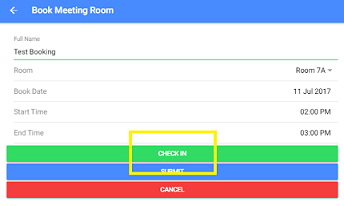
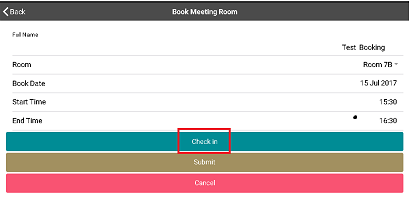
fixed clock style issue and add background loading

diff --git a/src/pages/room-booking/room-booking.ts b/src/pages/room-booking/room-booking.ts
@@ -1,5 +1,5 @@
 import { Component, ViewChild, ElementRef, Renderer } from '@angular/core';
-import { IonicPage, NavController, NavParams } from 'ionic-angular';
+import { IonicPage, NavController, NavParams, LoadingController } from 'ionic-angular';
 import { Validators, FormBuilder, FormGroup } from '@angular/forms';
 import { BookingDataProvider } from '../../providers/booking-data/booking-data';
 import { Storage } from '@ionic/storage';
@@ -35,19 +35,28 @@ export class RoomBookingPage {
 
   constructor(public navCtrl: NavController, public navParams: NavParams, private formBuilder: FormBuilder,
    private storage: Storage, public bookingDataProvider: BookingDataProvider, public alertCtrl: AlertController,
-   private renderer: Renderer) {
+   private renderer: Renderer,public loadingCtrl: LoadingController) {
     this.initForm(this.navParams.data);
   }
 
   ionViewDidLoad() {
 
-    console.log(this.bookStartTime.nativeElement);
-
     const that = this;
+    let loading;
 
     $(this.bookStartTime.nativeElement).clockpicker({
-      autoclose: true,
-      placement: 'right', 
+      autoclose: false,
+      placement: 'right',
+      donetext: 'Done',
+      beforeShow: function(){
+        loading = that.loadingCtrl.create({
+             content: ''
+         });
+        loading.present();
+      },
+      beforeHide: function(){
+        loading.dismiss();
+      }, 
       afterDone: function(val) {
           that.bookingForm.controls['bookStartTime'].setValue(val);
           const splitVal = val.split(':');
@@ -58,10 +67,19 @@ export class RoomBookingPage {
           that.bookingForm.controls['bookEndTime'].setValue(selectedTime.format('HH:mm'));
       }
     }); 
-
     $(this.bookEndTime.nativeElement).clockpicker({
-      autoclose: true,
-      placement: 'right', 
+      autoclose: false,
+      placement: 'right',
+      donetext: 'Done',
+      beforeShow: function(){
+       loading = that.loadingCtrl.create({
+             content: ''
+         });
+       loading.present();
+      },
+      beforeHide: function(){
+        loading.dismiss();
+      },
       afterDone: function(val) {
           that.bookingForm.controls['bookEndTime'].setValue(val);
       }

diff --git a/src/pages/room-status/room-status.ts b/src/pages/room-status/room-status.ts
@@ -32,7 +32,7 @@ export class RoomStatusPage {
     startDate:Moment.Moment;
 
     isToday:boolean;
-    elapsedCount:string;
+    elapsedCount:string = 'a few moments ago';
     calendar = {
         mode: 'month',
         currentDate: new Date(),
@@ -110,7 +110,7 @@ export class RoomStatusPage {
     }
 
     onEventSelected(event) {
-        console.log('Event selected:' + event.startTime + '-' + event.endTime + ',' + event.title, +', '+ event.id);
+        //console.log('Event selected:' + event.startTime + '-' + event.endTime + ',' + event.title, +', '+ event.id);
         this.navCtrl.push(RoomBookingPage, event);
     }
 
@@ -123,8 +123,8 @@ export class RoomStatusPage {
     }
 
     onTimeSelected(ev) {
-        console.log('Selected time: ' + ev.selectedTime + ', hasEvents: ' +
-            (ev.events !== undefined && ev.events.length !== 0) + ', disabled: ' + ev.disabled);
+        // console.log('Selected time: ' + ev.selectedTime + ', hasEvents: ' +
+        //     (ev.events !== undefined && ev.events.length !== 0) + ', disabled: ' + ev.disabled);
     }
 
     onCurrentDateChanged(event:Date) {
@@ -155,6 +155,10 @@ export class RoomStatusPage {
     }, 60000);
 
     setInterval(() => {
+      this.today();
+    }, 60000*60*5);
+
+    setInterval(() => {
 
       var p = Promise.resolve(1);
 
@@ -164,7 +168,7 @@ export class RoomStatusPage {
             let eventMaxStartTime = eventStartTime.clone().add(10,'minutes');
             let now = Moment();
             if(now.isSameOrAfter(eventMaxStartTime) && value.checkin!=true) {
-                console.log('EXPIRED' + eventStartTime.toString()+' '+eventMaxStartTime.toString());
+                //console.log('EXPIRED' + eventStartTime.toString()+' '+eventMaxStartTime.toString());
                 return that.bookingDataProvider.delete(value.id).then(value1 => {
                   that.presentToast(value1);
                   return Promise.resolve(1);

diff --git a/src/pages/room-status/room-status.html b/src/pages/room-status/room-status.html
@@ -7,7 +7,8 @@
 <ion-header>
 
   <ion-navbar color="primary">
-    <ion-title> <ion-icon name="calendar"></ion-icon>&nbsp;BNYM SG IC - Room Booking Calendar</ion-title>
+    <ion-title> 
+    BNYM SG IC - Room Booking Calendar</ion-title>
      <ion-buttons end>
       <button ion-button icon-only  (click)="openHelp()">
         <ion-icon name="help"></ion-icon>&nbsp;&nbsp;&nbsp;
@@ -23,7 +24,7 @@
 
     </ion-buttons>
     <ion-buttons end>
-        <ion-badge color="danger">
+        <ion-badge color="secondary2">
           Selected Date : {{selectedDate|date: 'dd MMM yyyy'}}
         </ion-badge>
     </ion-buttons>
@@ -85,7 +86,7 @@
             </ion-item>
             <ion-item *ngIf="selectedDate?.events.length==0">
                 <div class="no-events-label">
-                   <ion-badge color="danger">
+                   <ion-badge color="primary">
                   {{noEventsLabel}}
                    </ion-badge>
                   </div>
@@ -111,6 +112,9 @@
 </ion-content>
 <ion-footer>
   <ion-toolbar>
-     <ion-label>Uptime : {{elapsedCount}}</ion-label>
+     <ion-label>&nbsp;&nbsp;Uptime : {{elapsedCount }}</ion-label>
+          <ion-buttons end>
+     <img src="assets/img/logo.png" width="60"/>
+          </ion-buttons>
   </ion-toolbar>
 </ion-footer>

diff --git a/src/pages/room-booking/room-booking.html b/src/pages/room-booking/room-booking.html
@@ -43,8 +43,8 @@
     <!--<ion-datetime displayFormat="hh:mm A" pickerFormat="hh mm A" formControlName="bookEndTime"></ion-datetime>-->
     <ion-input type="text" #bookEndTime formControlName="bookEndTime" required readonly="true"></ion-input>
   </ion-item>
-  <button ion-button color="secondary" type="button" *ngIf="enableCheckin" block (click)="checkIn()">Check in</button>
-  <button ion-button type="submit" [disabled]="!bookingForm.valid" block>Submit</button>
+  <button ion-button color="secondary2" type="button" *ngIf="enableCheckin" block (click)="checkIn()">Check in</button>
+  <button ion-button color="secondary" type="submit" [disabled]="!bookingForm.valid" block>Submit</button>
   <button ion-button color="danger" type="button" *ngIf="enableDelete" block (click)="delete()">Cancel</button>
 </form>
 </ion-list>

diff --git a/src/theme/variables.scss b/src/theme/variables.scss
@@ -34,11 +34,19 @@ $app-direction: ltr;
 // The "primary" color is the only required color in the map.
 
 $colors: (
-  primary:    #488aff,
-  secondary:  #32db64,
-  danger:     #f53d3d,
-  light:      #f4f4f4,
-  dark:       #222,
+  // primary:    #488aff,
+  // secondary:  #32db64,
+  // danger:     #f53d3d,
+  // light:      #f4f4f4,
+  // dark:       #222,
+
+  
+  primary: #4B4B4B,
+  secondary: #A29060,
+  secondary2: #008C95,
+  dark: #0057B8,
+  light: #F4BD0C,
+  danger: #f95372,
 
   room1: #3399EE,
   room2: #ff66aa,

diff --git a/src/assets/clockpicker-gh-pages/jquery-clockpicker.css b/src/assets/clockpicker-gh-pages/jquery-clockpicker.css
@@ -18,11 +18,9 @@ and (max-device-width : 1024px){
     -ms-transform: scale(1.5);
     -webkit-transform: scale(1.5); 
     transform: scale(1.5);
-  }
+  } 
 }
 .popover {
-
-
   position: absolute !important;
   left: 35% !important;
   top: 25% !important;
@@ -66,6 +64,7 @@ and (max-device-width : 1024px){
   border-radius: 5px 5px 0 0;
 }
 .popover-content {
+  position: static !important;
   padding: 9px 14px;
 }
 .popover > .arrow,

diff --git a/src/pages/room-status/room-status.scss b/src/pages/room-status/room-status.scss
@@ -1,3 +1,5 @@
+@import "../../theme/variables";
+
 page-room-status {
   ion-modal {
   position: absolute;
@@ -7,5 +9,17 @@ page-room-status {
   width: 70%;
   height: 62%;
   }
+
+
+  .monthview-selected {     
+    background-color: white !important;
+    color: rgba(0, 140, 149, 1.0) !important;
+    font-weight: bold;
+  }
+
+  .monthview-primary-with-event {
+    background-color: rgba(0, 140, 149, 0.3) !important;
+  }
+
 }
 

diff --git a/src/providers/booking-data/booking-data.ts b/src/providers/booking-data/booking-data.ts
@@ -137,7 +137,6 @@ export class BookingDataProvider {
 
     let checkin = false;
     
-    console.log(Moment(startTime));
     if(Moment(startTime).isBefore(now)) {
       checkin = true;
     }

diff --git a/src/assets/clockpicker-gh-pages/jquery-clockpicker.js b/src/assets/clockpicker-gh-pages/jquery-clockpicker.js
@@ -393,7 +393,6 @@
 		popover.show();
 
 		// Place the popover
-		console.log(offset);
 		switch (placement) {
 			case 'bottom':
 				styles.top = offset.top + height;

diff --git a/src/app/app.scss b/src/app/app.scss
@@ -46,3 +46,4 @@
 $popover-md-width: 480px;
 $popover-ios-width: 480px;
 $popover-wp-width: 480px;
+
